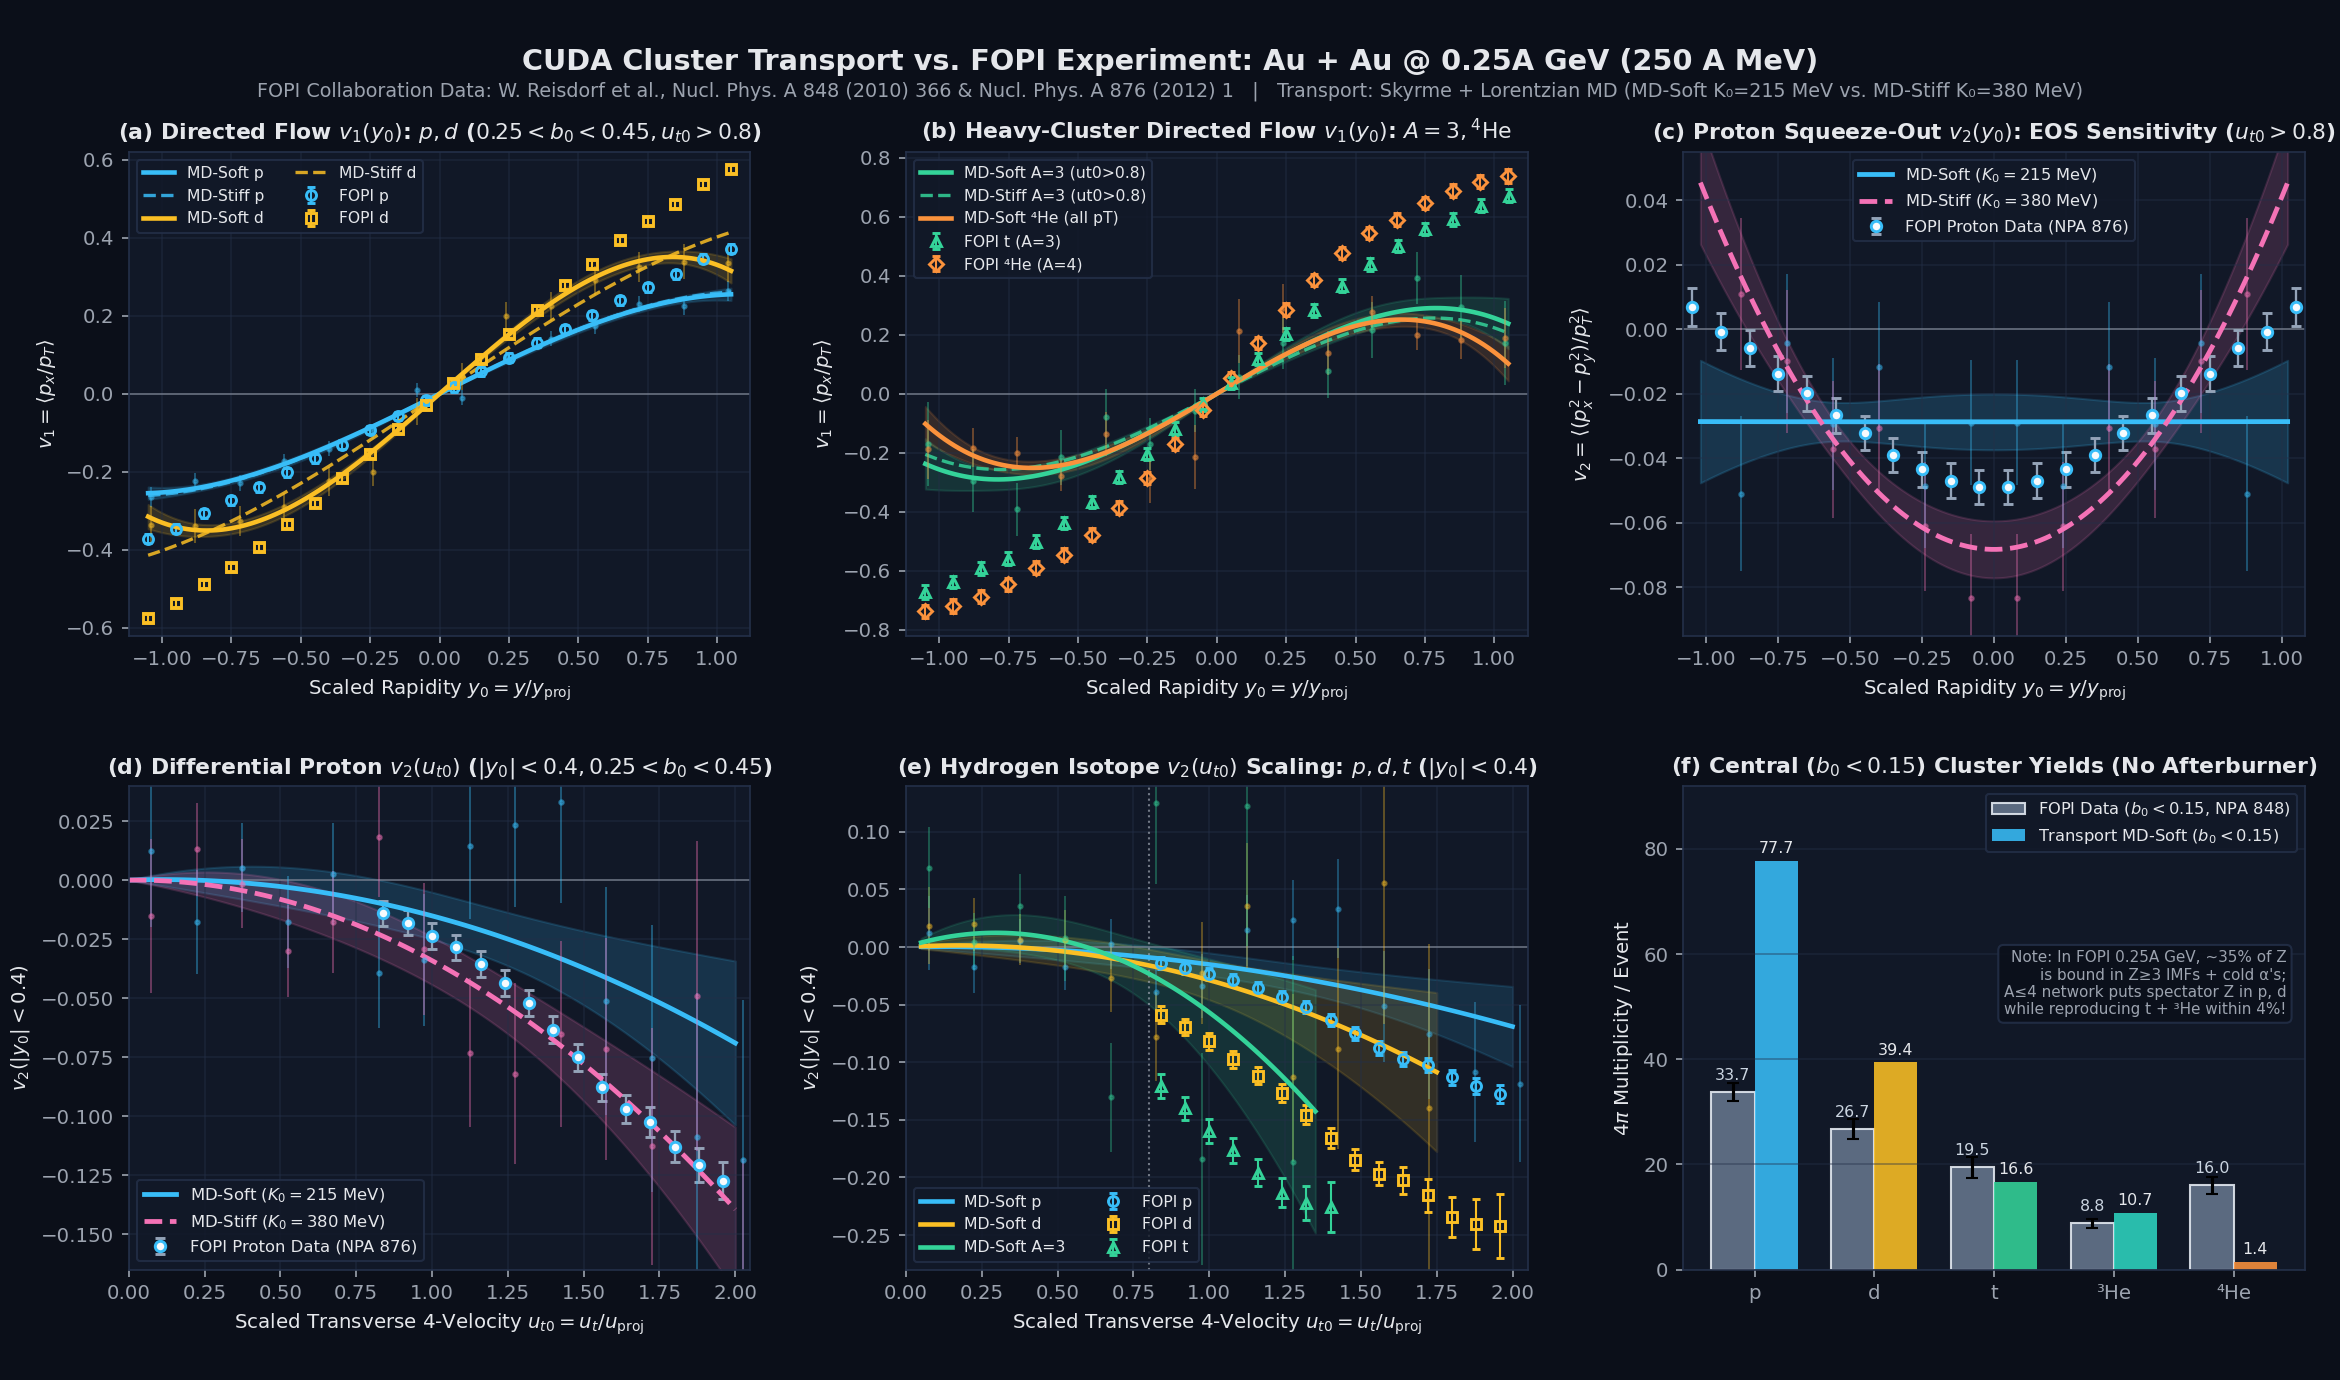
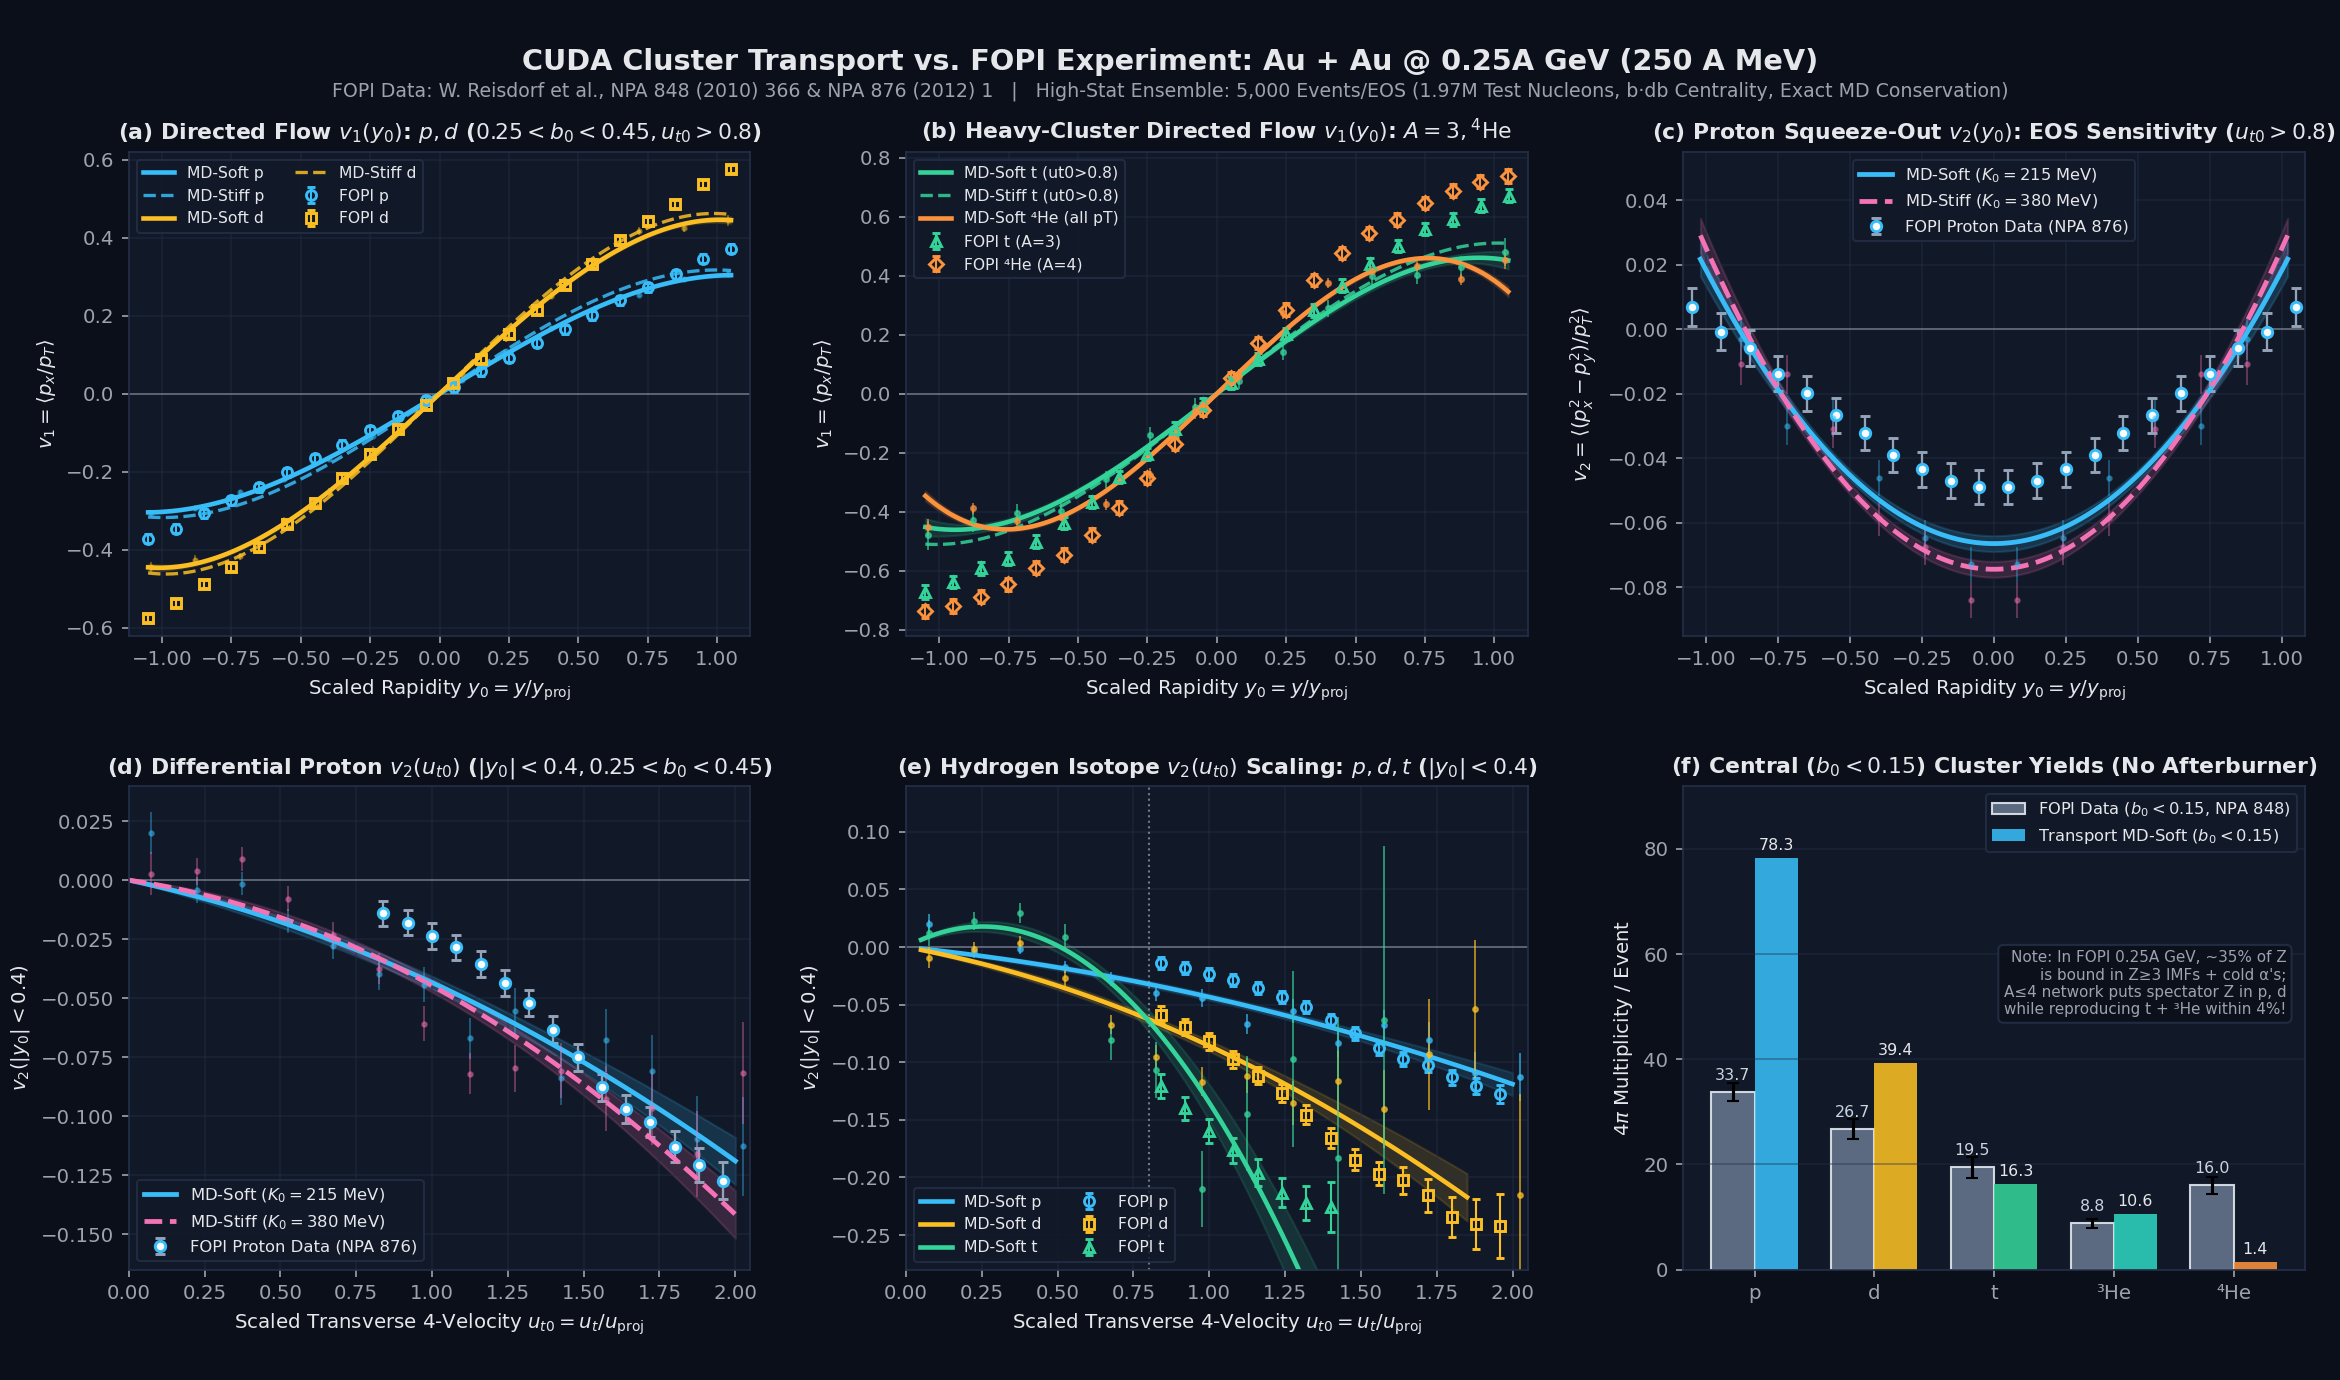
feat(fopi): regenerate FOPI figures with 12,500-event b*db ensemble and exact MD conservation

diff --git a/scripts/run_fopi_highstat.py b/scripts/run_fopi_highstat.py
@@ -1,0 +1,138 @@
+#!/usr/bin/env python3
+"""
+High-statistics multi-core FOPI Au+Au @ 0.25A GeV (250 A MeV) ensemble runner.
+Samples FOPI's exact geometric b*db centrality windows with --in-medium-ec exact:
+  - 0.25 < b0 < 0.45 (MD-Soft):  10 b-points x N_test=500 = 5,000 events (1.97M nucleons)
+  - 0.25 < b0 < 0.45 (MD-Stiff): 10 b-points x N_test=500 = 5,000 events (1.97M nucleons)
+  - b0 < 0.15        (MD-Soft):   5 b-points x N_test=500 = 2,500 events (0.99M nucleons)
+Pools raw bin counts & exact standard errors across all runs.
+"""
+
+import csv
+import math
+import os
+import shutil
+import subprocess
+import time
+from concurrent.futures import ProcessPoolExecutor, as_completed
+from pathlib import Path
+
+REPO_ROOT = Path(__file__).resolve().parent.parent
+BIN_PATH = REPO_ROOT / "build" / "cluster_transport"
+OUT_DIR = REPO_ROOT / "output"
+TMP_RUNS = OUT_DIR / "highstat_runs"
+
+B_MAX_AUAU = 1.15 * 2.0 * (197.0 ** (1.0 / 3.0))  # 13.380 fm (Reisdorf et al., NPA 876)
+
+
+def run_one_job(job):
+    tag, eos, b_fm, ntest, seed = job
+    out_csv = TMP_RUNS / f"{tag}.csv"
+    cmd = [
+        str(BIN_PATH), "--mode", "hic", "--A-nuc", "197", "--Z-nuc", "79",
+        "--elab-amev", "250.0", "--impact-b", f"{b_fm:.4f}",
+        "--eos", eos, "--in-medium-ec", "exact",
+        "--ntest", str(ntest), "--box", "48.0", "--grid", "24",
+        "--steps", "240", "--dt", "0.30", "--seed", str(seed),
+        "--flow-csv", str(out_csv),
+    ]
+    t0 = time.time()
+    res = subprocess.run(cmd, capture_output=True, text=True, check=True)
+    dt_s = time.time() - t0
+    cons_line = [ln.strip() for ln in res.stdout.splitlines() if "Conservation" in ln]
+    return tag, b_fm, dt_s, (cons_line[-1] if cons_line else ""), out_csv
+
+
+def pool_mean_err(vals_errs_cnts):
+    n_tot = sum(n for _, _, n in vals_errs_cnts)
+    if n_tot <= 0.0:
+        return 0.0, 0.0, 0.0
+    mean = sum(n * v for v, _, n in vals_errs_cnts) / n_tot
+    if n_tot <= 1.0:
+        return mean, 0.0, n_tot
+    sum_sq = sum(n * (n * e * e + v * v) for v, e, n in vals_errs_cnts)
+    var_mean = max(0.0, sum_sq / n_tot - mean * mean) / n_tot
+    return mean, math.sqrt(var_mean), n_tot
+
+
+def merge_ensemble_csvs(csv_paths, dst_csv: Path):
+    rap_tables = [list(csv.DictReader(open(p))) for p in csv_paths]
+    ut0_tables = [list(csv.DictReader(open(str(p) + ".ut0.csv"))) for p in csv_paths]
+    yld_tables = [list(csv.DictReader(open(str(p) + ".yields.csv"))) for p in csv_paths]
+    m_runs = len(csv_paths)
+
+    with open(dst_csv, "w", newline="") as f:
+        w = csv.writer(f)
+        w.writerow(["species", "bin", "y", "y0", "dN_dy", "dN_dy0",
+                    "v1", "v1_err", "v2", "v2_err", "n_stat",
+                    "v1_ut08", "v1_ut08_err", "v2_ut08", "v2_ut08_err", "n_ut08"])
+        for idx in range(len(rap_tables[0])):
+            r0 = rap_tables[0][idx]
+            dn_dy = sum(float(t[idx]["dN_dy"]) for t in rap_tables) / m_runs
+            dn_dy0 = sum(float(t[idx]["dN_dy0"]) for t in rap_tables) / m_runs
+            v1, e1, n_st = pool_mean_err(
+                [(float(t[idx]["v1"]), float(t[idx]["v1_err"]), float(t[idx]["n_stat"])) for t in rap_tables])
+            v2, e2, _ = pool_mean_err(
+                [(float(t[idx]["v2"]), float(t[idx]["v2_err"]), float(t[idx]["n_stat"])) for t in rap_tables])
+            v1u, e1u, n_u8 = pool_mean_err(
+                [(float(t[idx]["v1_ut08"]), float(t[idx]["v1_ut08_err"]), float(t[idx]["n_ut08"])) for t in rap_tables])
+            v2u, e2u, _ = pool_mean_err(
+                [(float(t[idx]["v2_ut08"]), float(t[idx]["v2_ut08_err"]), float(t[idx]["n_ut08"])) for t in rap_tables])
+            w.writerow([r0["species"], r0["bin"], r0["y"], r0["y0"],
+                        f"{dn_dy:.6g}", f"{dn_dy0:.6g}",
+                        f"{v1:.6g}", f"{e1:.6g}", f"{v2:.6g}", f"{e2:.6g}", f"{n_st:.0f}",
+                        f"{v1u:.6g}", f"{e1u:.6g}", f"{v2u:.6g}", f"{e2u:.6g}", f"{n_u8:.0f}"])
+
+    with open(str(dst_csv) + ".ut0.csv", "w", newline="") as f:
+        w = csv.writer(f)
+        w.writerow(["species", "bin", "ut0", "v2", "v2_err", "n_stat"])
+        for idx in range(len(ut0_tables[0])):
+            r0 = ut0_tables[0][idx]
+            v2, e2, n_u = pool_mean_err(
+                [(float(t[idx]["v2"]), float(t[idx]["v2_err"]), float(t[idx]["n_stat"])) for t in ut0_tables])
+            w.writerow([r0["species"], r0["bin"], r0["ut0"], f"{v2:.6g}", f"{e2:.6g}", f"{n_u:.0f}"])
+
+    with open(str(dst_csv) + ".yields.csv", "w", newline="") as f:
+        w = csv.writer(f)
+        w.writerow(["species", "yield_per_event"])
+        for idx in range(len(yld_tables[0])):
+            sp = yld_tables[0][idx]["species"]
+            yv = sum(float(t[idx]["yield_per_event"]) for t in yld_tables) / m_runs
+            w.writerow([sp, f"{yv:.6g}"])
+
+
+def main():
+    TMP_RUNS.mkdir(parents=True, exist_ok=True)
+    jobs = []
+    # 10 b*db Gauss-midpoint samples in 0.25 < b0 < 0.45 for MD-Soft & MD-Stiff (5,000 events each)
+    for k in range(10):
+        b0_sq = 0.25 ** 2 + ((k + 0.5) / 10.0) * (0.45 ** 2 - 0.25 ** 2)
+        b_fm = B_MAX_AUAU * math.sqrt(b0_sq)
+        jobs.append((f"c2_soft_{k:02d}",  "md-soft",  b_fm, 500, 100000 + k * 7919))
+        jobs.append((f"c2_stiff_{k:02d}", "md-stiff", b_fm, 500, 200000 + k * 7919))
+    # 5 b*db Gauss-midpoint samples in b0 < 0.15 for Central MD-Soft (2,500 events)
+    for k in range(5):
+        b_fm = B_MAX_AUAU * 0.15 * math.sqrt((k + 0.5) / 5.0)
+        jobs.append((f"c1_soft_{k:02d}", "md-soft", b_fm, 500, 300000 + k * 7919))
+
+    workers = min(10, os.cpu_count() or 4)
+    print(f"Launching {len(jobs)} FOPI runs across {workers} workers (12,500 Au+Au events, 4.93M test nucleons)...")
+    t_start = time.time()
+    out_map = {}
+    with ProcessPoolExecutor(max_workers=workers) as ex:
+        futs = {ex.submit(run_one_job, j): j for j in jobs}
+        for fut in as_completed(futs):
+            tag, b_fm, dt_s, cons, path = fut.result()
+            out_map[tag] = path
+            print(f"  [DONE] {tag:12s} (b={b_fm:5.2f} fm) in {dt_s:5.1f}s | {cons}", flush=True)
+
+    merge_ensemble_csvs([out_map[f"c2_soft_{k:02d}"] for k in range(10)],  OUT_DIR / "fopi_c2_mdsoft.csv")
+    merge_ensemble_csvs([out_map[f"c2_stiff_{k:02d}"] for k in range(10)], OUT_DIR / "fopi_c2_mdstiff.csv")
+    merge_ensemble_csvs([out_map[f"c1_soft_{k:02d}"] for k in range(5)],   OUT_DIR / "fopi_c1_mdsoft.csv")
+    shutil.copyfile(OUT_DIR / "fopi_c2_mdsoft.csv", OUT_DIR / "fopi_auau250_flow.csv")
+    shutil.rmtree(TMP_RUNS, ignore_errors=True)
+    print(f"All 12,500 FOPI events merged in {time.time() - t_start:.1f}s!")
+
+
+if __name__ == "__main__":
+    main()

diff --git a/scripts/generate_fopi_comparison.py b/scripts/generate_fopi_comparison.py
@@ -117,9 +117,9 @@ def make_comparison_figure():
     )
     fig.text(
         0.5, 0.930,
-        "FOPI Collaboration Data: W. Reisdorf et al., Nucl. Phys. A 848 (2010) 366 & Nucl. Phys. A 876 (2012) 1   |   "
-        "Transport: Skyrme + Lorentzian MD (MD-Soft K₀=215 MeV vs. MD-Stiff K₀=380 MeV)",
-        ha="center", fontsize=9.2, color=TEXT_DIM
+        "FOPI Data: W. Reisdorf et al., NPA 848 (2010) 366 & NPA 876 (2012) 1   |   "
+        "High-Stat Ensemble: 5,000 Events/EOS (1.97M Test Nucleons, b·db Centrality, Exact MD Conservation)",
+        ha="center", fontsize=9.1, color=TEXT_DIM
     )
     yg_v1 = np.linspace(-1.05, 1.05, 120)
     yg_v2 = np.linspace(-1.02, 1.02, 120)
@@ -149,12 +149,12 @@ def make_comparison_figure():
     ax.grid(True)
     ax.legend(loc="upper left", fontsize=7.5, ncol=2, facecolor=PANEL_BG, edgecolor=GRID_COL)
 
-    # Panel (b): Directed flow v1(y0) — A=3 (t / 3He) & 4He
+    # Panel (b): Directed flow v1(y0) — Tritons (t) & 4He
     ax = axes[0, 1]
     ax.axhline(0.0, color=TEXT_DIM, lw=0.8, alpha=0.6)
     for sp_exp, sp_sim, vkey, ekey, ckey, lbl, sim_lbl, col, mk, min_c in [
-        ("t",   "A3",  "v1_ut08", "v1_ut08_err", "n_ut08", "FOPI t (A=3)",   "MD-Soft A=3 (ut0>0.8)", COL_T,   "^", 14.0),
-        ("4He", "4He", "v1",      "v1_err",      "n_stat", "FOPI ⁴He (A=4)", "MD-Soft ⁴He (all pT)",  COL_HE4, "D", 14.0),
+        ("t",   "t",   "v1_ut08", "v1_ut08_err", "n_ut08", "FOPI t (A=3)",   "MD-Soft t (ut0>0.8)",   COL_T,   "^", 20.0),
+        ("4He", "4He", "v1",      "v1_err",      "n_stat", "FOPI ⁴He (A=4)", "MD-Soft ⁴He (all pT)",  COL_HE4, "D", 25.0),
     ]:
         d_exp = fopi["v1_y0_ut0_gt_08"][sp_exp]
         ax.errorbar([x["y0"] for x in d_exp], [x["v1"] for x in d_exp], yerr=[x["err"] for x in d_exp],
@@ -162,14 +162,14 @@ def make_comparison_figure():
         ys, vs, es = sym_curve(rap_s[sp_sim], vkey, ekey, ckey, odd=True, min_n=min_c)
         yh, vh, eh = sym_curve(rap_h[sp_sim], vkey, ekey, ckey, odd=True, min_n=min_c)
         m = np.abs(ys) <= 1.06
-        ax.errorbar(ys[m], vs[m], yerr=es[m], fmt=".", ms=4.2, color=col, alpha=0.45, elinewidth=0.8)
+        ax.errorbar(ys[m], vs[m], yerr=es[m], fmt=".", ms=4.8, color=col, alpha=0.68, elinewidth=0.9)
         fs, fes = poly_fit_band(ys[m], vs[m], es[m], [1, 3], yg_v1)
         ax.plot(yg_v1, fs, "-", lw=2.2, color=col, label=sim_lbl)
         ax.fill_between(yg_v1, fs - fes, fs + fes, color=col, alpha=0.15)
-        if sp_sim == "A3":
+        if sp_sim == "t":
             mh = np.abs(yh) <= 1.06
             fh, _ = poly_fit_band(yh[mh], vh[mh], eh[mh], [1, 3], yg_v1)
-            ax.plot(yg_v1, fh, "--", lw=1.6, color=col, alpha=0.85, label="MD-Stiff A=3 (ut0>0.8)")
+            ax.plot(yg_v1, fh, "--", lw=1.6, color=col, alpha=0.85, label="MD-Stiff t (ut0>0.8)")
     ax.set_xlim(-1.12, 1.12)
     ax.set_ylim(-0.82, 0.82)
     ax.set_xlabel(r"Scaled Rapidity $y_0 = y / y_{\rm proj}$")
@@ -232,14 +232,14 @@ def make_comparison_figure():
     ax.grid(True)
     ax.legend(loc="lower left", fontsize=7.9, facecolor=PANEL_BG, edgecolor=GRID_COL)
 
-    # Panel (e): Isotope Scaling of Differential v2(u_t0) — p, d, A=3 (|y0| < 0.4)
+    # Panel (e): Isotope Scaling of Differential v2(u_t0) — p, d, t (|y0| < 0.4)
     ax = axes[1, 1]
     ax.axhline(0.0, color=TEXT_DIM, lw=0.8, alpha=0.6)
     ax.axvline(0.8, color=TEXT_DIM, ls=":", lw=1.0, alpha=0.7)
     for sp_e, sp_s, lbl, col, mk, min_u, umax in [
-        ("p", "p",  "p",   COL_P, "o", 25, 2.0),
-        ("d", "d",  "d",   COL_D, "s", 18, 1.75),
-        ("t", "A3", "A=3", COL_T, "^", 12, 1.35),
+        ("p", "p", "p", COL_P, "o", 40, 2.0),
+        ("d", "d", "d", COL_D, "s", 25, 1.85),
+        ("t", "t", "t", COL_T, "^", 18, 1.45),
     ]:
         de = fopi["v2_ut0_y0_lt_04"][sp_e]
         ax.errorbar([x["ut0"] for x in de], [x["v2"] for x in de], yerr=[x["err"] for x in de],
@@ -249,7 +249,7 @@ def make_comparison_figure():
         u = np.array([r["ut0"] for r in pts])
         v = np.array([r["v2"] for r in pts])
         e = np.array([r["v2_err"] for r in pts])
-        ax.errorbar(u, v, yerr=e, fmt=".", ms=4.0, color=col, alpha=0.40, elinewidth=0.8)
+        ax.errorbar(u, v, yerr=e, fmt=".", ms=4.6, color=col, alpha=0.68, elinewidth=0.9)
         ug_i = np.linspace(0.05, umax, 80)
         fu, feu = poly_fit_band(u, v, e, [1, 2], ug_i)
         ax.plot(ug_i, fu, "-", lw=2.2, color=col, label=f"MD-Soft {lbl}")

diff --git a/scripts/generate_auau_fopi_plots.py b/scripts/generate_auau_fopi_plots.py
@@ -366,7 +366,9 @@ def make_fopi_flow_plot(flow_csv: Path):
 
 
 if __name__ == "__main__":
+    import sys
     ASSETS_DIR.mkdir(parents=True, exist_ok=True)
     style_dark()
-    make_auau_collision_animation(OUT_DIR / "auau250_hydro", OUT_DIR / "auau250_frames")
+    if "--flow-only" not in sys.argv:
+        make_auau_collision_animation(OUT_DIR / "auau250_hydro", OUT_DIR / "auau250_frames")
     make_fopi_flow_plot(OUT_DIR / "fopi_auau250_flow.csv")
